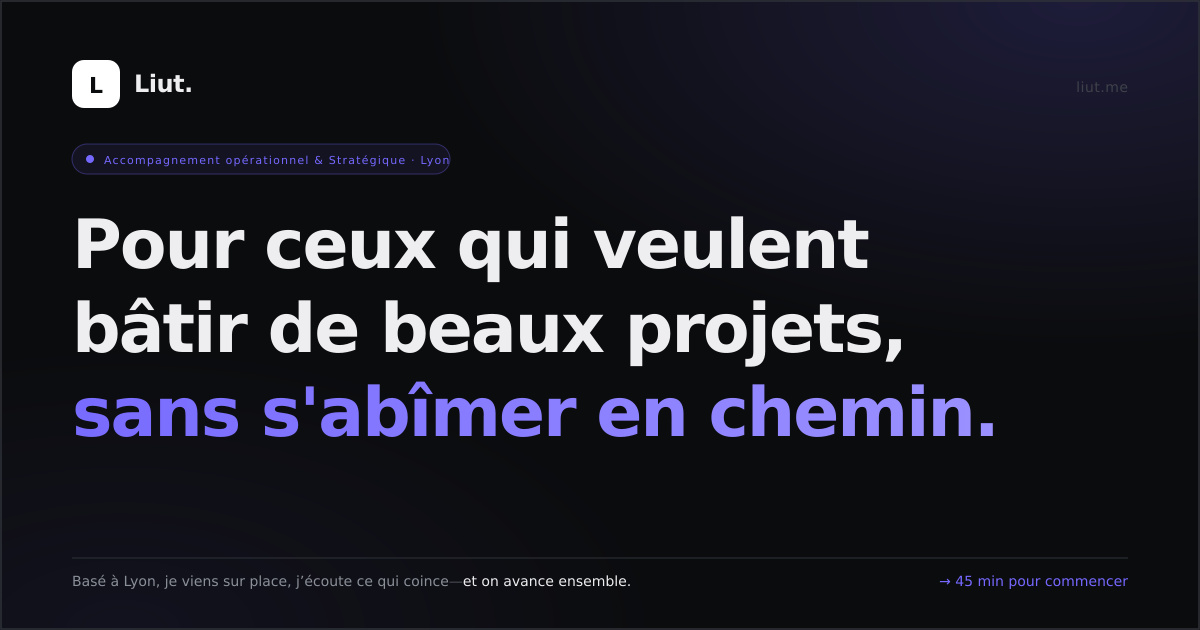
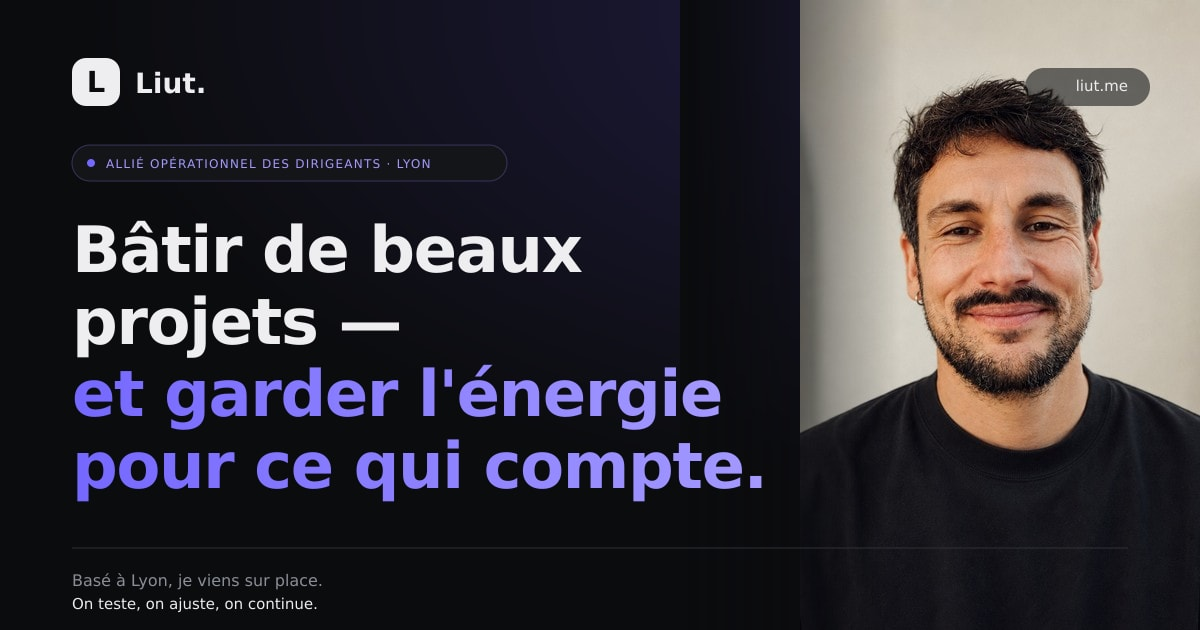
Update profile photo and social preview

diff --git a/index.html b/index.html
@@ -14,17 +14,19 @@
     <meta property="og:type" content="website">
     <meta property="og:locale" content="fr_FR">
     <meta property="og:site_name" content="Liut">
-    <meta property="og:title" content="Liut — Bâtir de beaux projets, ensemble · Lyon">
-    <meta property="og:description" content="Allié opérationnel des dirigeants à Lyon. On donne à votre entreprise l'organisation qui la fait grandir — on teste, on ajuste, on continue.">
+    <meta property="og:title" content="Bâtir de beaux projets — et garder l'énergie pour ce qui compte.">
+    <meta property="og:description" content="Basé à Lyon, je viens sur place. On regarde ensemble ce qui peut tourner mieux, et on le met en place. On teste, on ajuste, on continue.">
     <meta property="og:url" content="https://liut.me">
-    <meta property="og:image" content="https://liut.me/og-image.jpg">
+    <meta property="og:image" content="https://liut.me/og-image.jpg?v=2027">
     <meta property="og:image:width" content="1200">
     <meta property="og:image:height" content="630">
     <meta property="og:image:type" content="image/jpeg">
+    <meta property="og:image:alt" content="Liut — Bâtir de beaux projets et garder l'énergie pour ce qui compte.">
     <meta name="twitter:card" content="summary_large_image">
-    <meta name="twitter:title" content="Liut — Bâtir de beaux projets, ensemble">
-    <meta name="twitter:description" content="Allié opérationnel des dirigeants à Lyon. On donne à votre entreprise l'organisation qui la fait grandir.">
-    <meta name="twitter:image" content="https://liut.me/og-image.jpg">
+    <meta name="twitter:title" content="Bâtir de beaux projets — et garder l'énergie pour ce qui compte.">
+    <meta name="twitter:description" content="Basé à Lyon, je viens sur place. On regarde ensemble ce qui peut tourner mieux, et on le met en place. On teste, on ajuste, on continue.">
+    <meta name="twitter:image" content="https://liut.me/og-image.jpg?v=2027">
+    <meta name="twitter:image:alt" content="Liut — Bâtir de beaux projets et garder l'énergie pour ce qui compte.">
 
     <!-- Favicon -->
     <link rel="icon" type="image/webp" href="logo-liut.webp">
@@ -66,7 +68,7 @@
           "name": "Liut",
           "url": "https://liut.me/",
           "logo": "https://liut.me/logo-liut.webp",
-          "image": "https://liut.me/og-image.jpg",
+          "image": "https://liut.me/og-image.jpg?v=2027",
           "description": "Allié opérationnel des dirigeants et entrepreneurs. On donne à votre entreprise l'organisation qui la fait grandir.",
           "founder": { "@id": "https://liut.me/#person" },
           "address": {
@@ -229,7 +231,7 @@
                     <div class="bg-[#141518]/90 backdrop-blur-md border border-[#7568FF]/20 rounded-[2rem] p-8 relative overflow-hidden group hover:border-[#3E4149] transition-all duration-300 shadow-[0_0_60px_-20px_rgba(117,104,255,0.08)]">
                         <div class="absolute inset-0 bg-gradient-to-tr from-white/[0.02] to-transparent pointer-events-none"></div>
                         <div class="flex items-center gap-6 mb-10">
-                            <img src="profile-banana3pro.jpg" width="64" height="64" class="w-16 h-16 rounded-2xl object-cover border border-[#2E3138]" alt="Fabrice Liut" loading="lazy">
+                            <img src="profile-avatar-2027.jpg" width="64" height="64" class="w-16 h-16 rounded-2xl object-cover border border-[#2E3138]" alt="Fabrice Liut" loading="lazy">
                             <div>
                                 <h3 class="text-3xl font-display font-bold text-[#EEEEF0]">Moi</h3>
                                 <span class="text-[11px] font-mono text-[#8A8F98]">L'ALLIÉ OPÉRATIONNEL</span>

diff --git a/build.js b/build.js
@@ -10,7 +10,7 @@ const FILES = [
   'llms.txt',
   'manifest.webmanifest',
   'logo-liut.webp',
-  'profile-banana3pro.jpg',
+  'profile-avatar-2027.jpg',
   'og-image.jpg',
 ];
 

diff --git a/README.md b/README.md
@@ -18,8 +18,9 @@ script.js           ← navigation, menu mobile, scroll navbar
 dist/styles.css     ← CSS compilé (output Tailwind)
 src/input.css       ← CSS source (directives Tailwind + custom)
 tailwind.config.js  ← config Tailwind (fonts, safelist)
-logo-liut.webp      ← favicon / logo
-profile-banana3pro.jpg ← photo de profil
+logo-liut.webp          ← favicon / logo
+profile-avatar-2027.jpg ← photo de profil
+og-image.jpg            ← image de partage Open Graph (1200 × 630)
 robots.txt          ← règles SEO
 sitemap.xml         ← sitemap
 sources/            ← fichier source de référence
@@ -61,5 +62,4 @@ Génère `dist/styles.css` minifié.
 
 ## À faire / noter
 
-- Le fichier `og-image.jpg` référencé dans les meta OG n'existe pas encore → à créer (1200×630px recommandé)
-- Les images `logo-liut.webp` et `profile-banana3pro.jpg` sont récupérées depuis le site live
+- Les images de profil source sont conservées dans `sources/`
